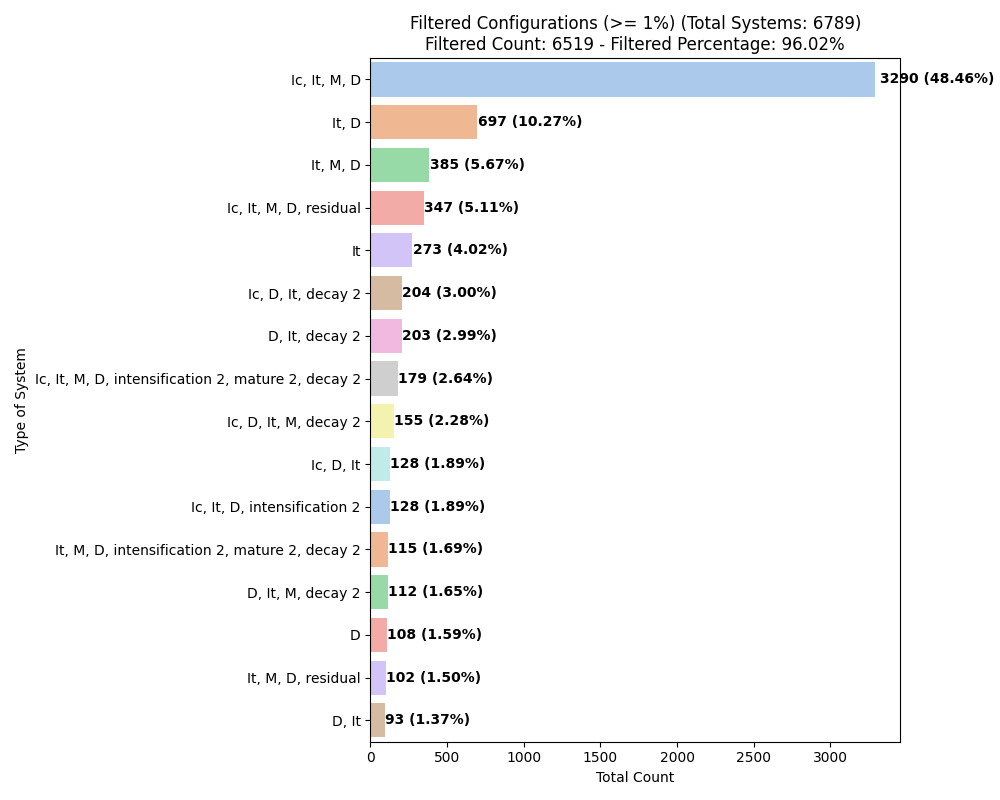
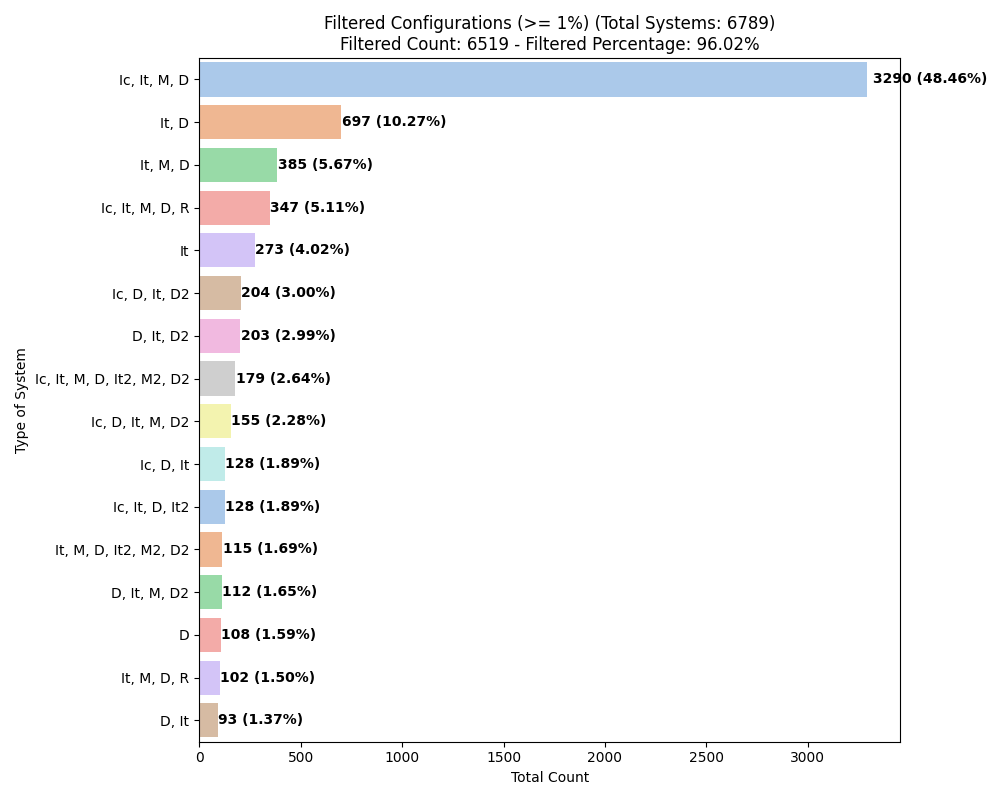
updated acronyms

diff --git a/src_determine_patterns/life_cycle.py b/src_determine_patterns/life_cycle.py
@@ -6,7 +6,7 @@
 #    By: daniloceano <danilo.oceano@gmail.com>      +#+  +:+       +#+         #
 #                                                 +#+#+#+#+#+   +#+            #
 #    Created: 2024/02/22 08:29:32 by daniloceano       #+#    #+#              #
-#    Updated: 2024/02/22 08:30:05 by daniloceano      ###   ########.fr        #
+#    Updated: 2024/02/27 17:38:52 by daniloceano      ###   ########.fr        #
 #                                                                              #
 # **************************************************************************** #
 
@@ -104,7 +104,9 @@ def plot_barplot(df, title_suffix, output_directory, filename, total_systems, fi
     df['Type of System'] = df['Type of System'].apply(lambda x: ', '.join(x) if isinstance(x, tuple) else x)
 
     # Replace full phase names with letter codes
-    letter_codes = {'incipient': 'Ic', 'intensification': 'It', 'mature': 'M', 'decay': 'D'}
+    letter_codes = {'incipient': 'Ic', 'intensification': 'It', 'mature': 'M', 'decay': 'D',
+                    'incipient 2': 'Ic2', 'intensification 2': 'It2', 'mature 2': 'M2', 'decay 2': 'D2',
+                    'residual': 'R'}
     df['Type of System'] = df['Type of System'].apply(
         lambda x: ', '.join([letter_codes.get(phase.strip(), phase.strip()) for phase in x.split(',')])
     )
